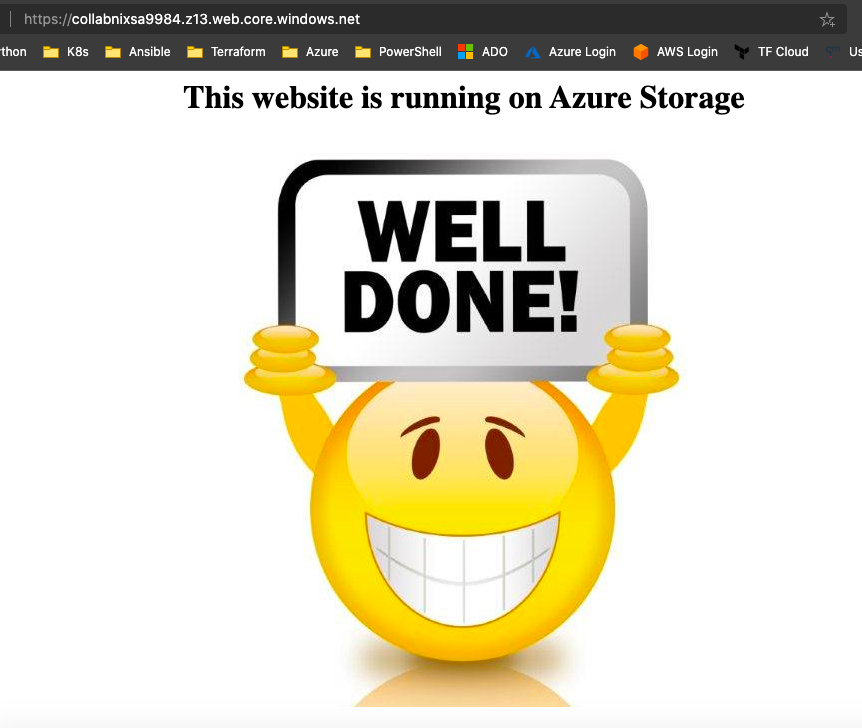
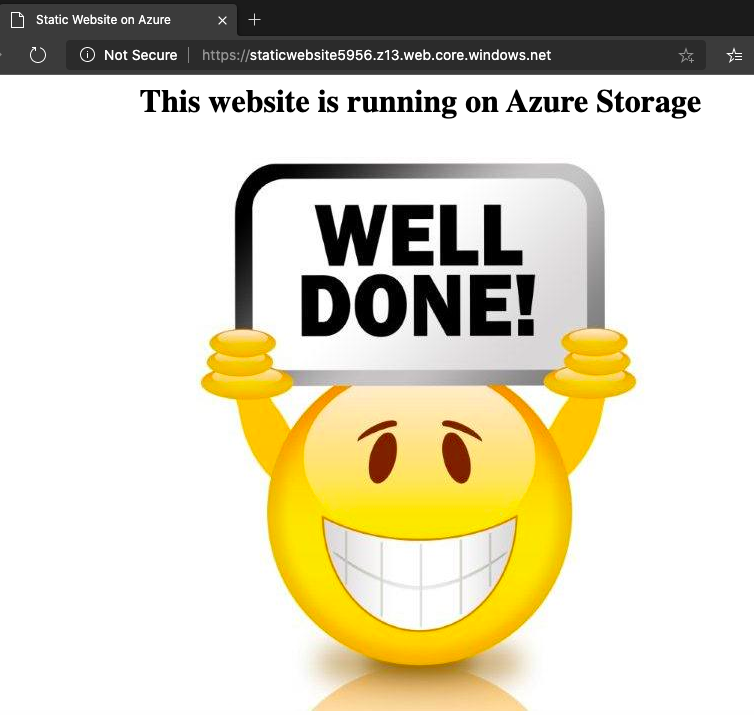
Added all files

Changed region(s): [[0.244, 0.2154, 0.8541, 1.0], [0.0, 0.0, 1.0, 0.1846]]

diff --git a/README.md b/README.md
@@ -9,7 +9,24 @@
 - A Resource Group
 - A Storage Account
 
-- After the storage account is created, copy the url from the output, paste it in a browser.
+### Access the webpage
+
+- After the storage account is created, copy the **website-url** from the outputs, paste it in a browser.
+
+> the url should be in this format - https://staticwebsite9817.z13.web.core.windows.net/
+
+
+
+[!success](https://github.com/TerraformingCloud/StaticWebsite-on-Azure-Storage/blob/master/success.png)
+
+
+- Error page
+
+> To view the error page, append /error to the above url.
+
+
+
+[!error](https://github.com/TerraformingCloud/StaticWebsite-on-Azure-Storage/blob/master/error.png)
 
 
 ## After the deployment
